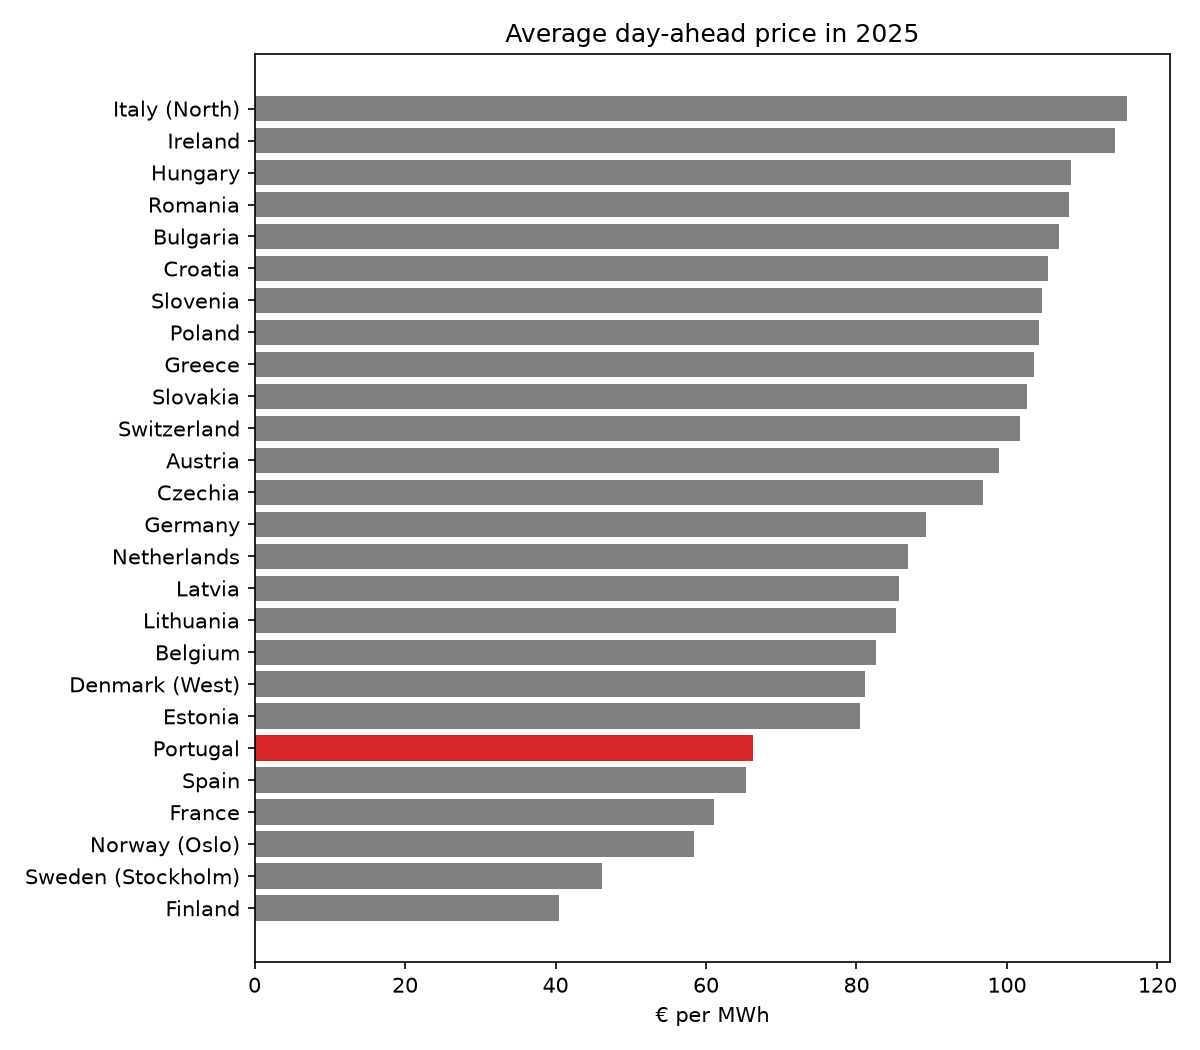
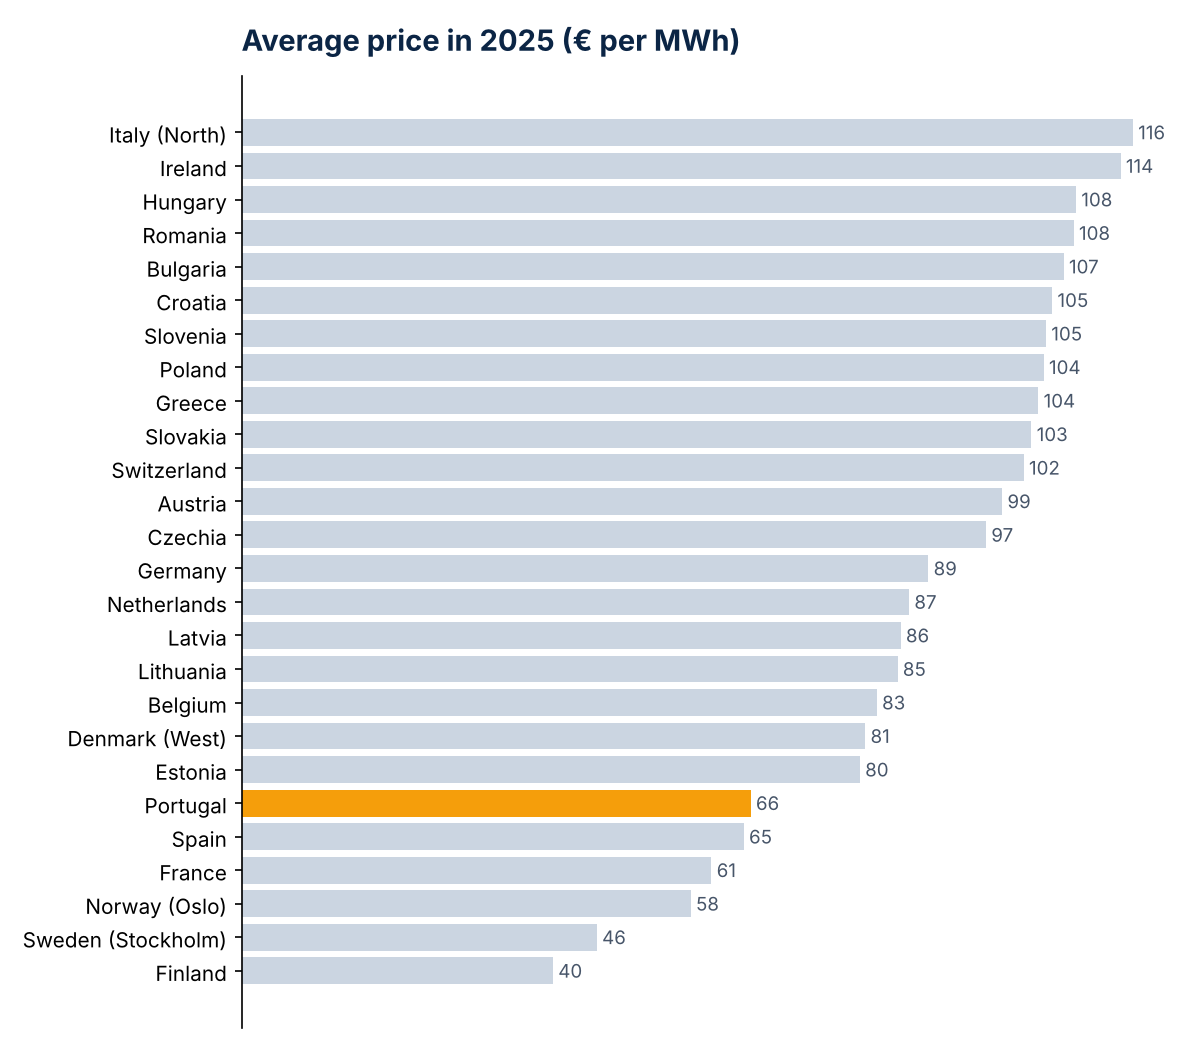
Restyle analysis charts to match the app

diff --git a/make_site_figures.py b/make_site_figures.py
@@ -1,0 +1,83 @@
+import pandas as pd
+import matplotlib.pyplot as plt
+
+# Colours of the app: Portugal in orange, other countries in light grey
+orange = "#f59e0b"
+grey = "#cbd5e1"
+navy = "#0b2545"
+
+
+# Clean look for every chart: bold title on the left, no box around it
+def clean_chart(ax, title):
+    ax.set_title(title, fontsize=14, fontweight="bold", color=navy, loc="left", pad=12)
+    ax.spines["top"].set_visible(False)
+    ax.spines["right"].set_visible(False)
+
+
+# Ranking of the countries in 2025, with Portugal in orange and the value at the end of each bar
+def ranking_chart(column, title, xlabel, file):
+    values = summary[column].dropna().sort_values()
+    colours = []
+    for country in values.index:
+        if country == "Portugal":
+            colours.append(orange)
+        else:
+            colours.append(grey)
+
+    fig, ax = plt.subplots(figsize=(8, 7))
+    ax.barh(values.index, values, color=colours)
+    for i in range(len(values)):
+        ax.text(values.iloc[i], i, " " + str(round(values.iloc[i])), va="center", fontsize=9, color="#475569")
+    clean_chart(ax, title)
+    ax.set_xlabel(xlabel)
+    ax.spines["bottom"].set_visible(False)
+    ax.set_xticks([])
+    fig.tight_layout()
+    fig.savefig("figures/" + file, dpi=150)
+    plt.close(fig)
+
+
+# 1. The four European rankings for 2025
+summary = pd.read_csv("data/europe_summary_2025.csv", index_col=0)
+ranking_chart("average_price", "Average price in 2025 (€ per MWh)", "", "europe_price_ranking.png")
+ranking_chart("negative_hours", "Hours with a negative price in 2025", "", "europe_negative_hours.png")
+ranking_chart("solar_capture_rate", "What solar earns, as % of the average price (2025)", "", "europe_capture_rate.png")
+ranking_chart("battery_profit", "Yearly margin of a 1 MW / 4 MWh battery in 2025 (thousand €)", "", "europe_battery_value.png")
+
+# 2. Portugal: average price by hour of the day in 2019, 2023 and 2025
+prices = pd.read_csv("data/prices_hourly.csv")
+prices["year"] = prices["date"].str[:4]
+year_colours = {"2019": "#94a3b8", "2023": "#3b82f6", "2025": orange}
+
+fig, ax = plt.subplots(figsize=(9, 5))
+for year in year_colours:
+    by_hour = prices[prices["year"] == year].groupby("hour")["price_pt"].mean()
+    ax.plot(by_hour.index, by_hour.values, color=year_colours[year], linewidth=3, label=year)
+clean_chart(ax, "Portugal: average price by hour of the day (€ per MWh)")
+ax.set_xlabel("Hour (Portuguese time)")
+ax.set_xticks(range(0, 24, 2))
+ax.grid(True, axis="y", color="#e5e7eb")
+ax.legend(frameon=False)
+fig.tight_layout()
+fig.savefig("figures/duck_curve.png", dpi=150)
+plt.close(fig)
+
+# 3. Portugal: average price by share of wind and solar, since 2023
+production = pd.read_csv("data/production_hourly.csv")
+df = pd.merge(prices, production, on=["date", "hour"])
+df = df[df["year"] >= "2023"]
+df["share_group"] = ((df["wind"] + df["solar"]) / df["consumption"] * 100 // 10 * 10).clip(upper=100)
+by_share = df.groupby("share_group")["price_pt"].mean()
+
+fig, ax = plt.subplots(figsize=(9, 5))
+ax.bar(by_share.index, by_share.values, width=8, color="#1d4e89")
+clean_chart(ax, "Portugal: average price by share of wind and solar, 2023 onwards")
+ax.set_xlabel("Wind and solar as % of consumption")
+ax.set_ylabel("€ per MWh")
+ax.grid(True, axis="y", color="#e5e7eb")
+ax.set_axisbelow(True)
+fig.tight_layout()
+fig.savefig("figures/price_by_renewable_share.png", dpi=150)
+plt.close(fig)
+
+print("Saved 6 charts in figures/")
